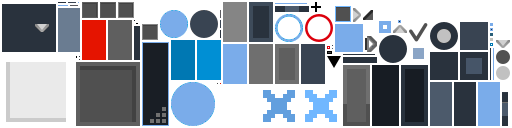
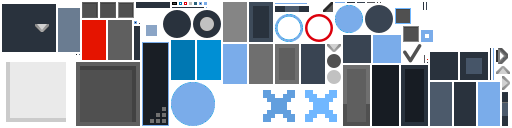
Changed items, added mushroom staff item

diff --git a/core/src/io/anuke/koru/ui/RecipeView.java b/core/src/io/anuke/koru/ui/RecipeView.java
@@ -4,12 +4,10 @@ import com.badlogic.gdx.graphics.g2d.Batch;
 import com.badlogic.gdx.graphics.g2d.TextureRegion;
 
 import io.anuke.koru.Koru;
-import io.anuke.koru.items.BlockRecipe;
+import io.anuke.koru.items.Recipe;
 import io.anuke.koru.network.Net;
 import io.anuke.koru.network.packets.RecipeSelectPacket;
 import io.anuke.koru.traits.InventoryTrait;
-import io.anuke.koru.world.materials.Material;
-import io.anuke.koru.world.materials.MaterialLayer;
 import io.anuke.ucore.core.Draw;
 import io.anuke.ucore.scene.Element;
 import io.anuke.ucore.scene.ui.layout.Table;
@@ -21,7 +19,7 @@ public class RecipeView extends Table{
 	Slot selected;
 	
 	public RecipeView(){
-		for(BlockRecipe recipe : BlockRecipe.getAll()){
+		for(Recipe recipe : Recipe.getAll()){
 			Slot slot = new Slot(recipe, recipe.id());
 			add(slot).size(slotsize);
 		}
@@ -33,9 +31,9 @@ public class RecipeView extends Table{
 	class Slot extends Element{
 		public final int index;
 		public final ClickListener click;
-		public final BlockRecipe recipe;
+		public final Recipe recipe;
 		
-		public Slot(BlockRecipe recipe, int index) {
+		public Slot(Recipe recipe, int index) {
 			this.index = index;
 			this.recipe = recipe;
 			
@@ -52,9 +50,26 @@ public class RecipeView extends Table{
 		}
 
 		public void draw(Batch batch, float alpha){
-			Draw.color(getColor());
+			
+			
 			patch(Koru.control.player.get(InventoryTrait.class).recipe == index ? "slotset" : (click.isOver() ? "slotselect2" : "slot2"));
 			
+			TextureRegion region = Draw.region(recipe.result().name() + "item");
+			
+			float scale = 4f;
+			
+			Draw.color(0f, 0f, 0f, 0.1f * alpha);
+			
+			Draw.rect(recipe.result().name() + "item", x + width/2f, y + height/2f - scale, 
+					region.getRegionWidth()*scale, region.getRegionHeight()*scale);
+			
+			Draw.color(getColor());
+			
+			Draw.rect(recipe.result().name() + "item", x + width/2f, y + height/2f, 
+					region.getRegionWidth()*scale, region.getRegionHeight()*scale);
+			
+			
+			/*
 			Material result = recipe.result();
 			TextureRegion region = Draw.region(result.name());
 			
@@ -67,6 +82,7 @@ public class RecipeView extends Table{
 			}
 			
 			Draw.reset();
+			*/
 		}
 	}
 }

diff --git a/core/src/io/anuke/koru/items/Item.java b/core/src/io/anuke/koru/items/Item.java
@@ -3,9 +3,11 @@ package io.anuke.koru.items;
 import java.util.EnumSet;
 
 import com.badlogic.gdx.utils.Array;
+import com.badlogic.gdx.utils.ObjectIntMap;
 
 import io.anuke.koru.input.InputHandler.ClickEvent;
 import io.anuke.koru.world.BreakType;
+import io.anuke.ucore.util.Strings;
 
 public class Item{
 	private static int lastid;
@@ -14,7 +16,10 @@ public class Item{
 	private final String name;
 	private final EnumSet<ItemType> types;
 	private final int id;
-	private int stackSize = 100;
+	
+	protected ObjectIntMap<BreakType> breakSpeeds = new ObjectIntMap<>();
+	protected String formalName;
+	protected int stackSize = 100;
 	
 	public static Item getItem(int id){
 		return items.get(id);
@@ -25,6 +30,7 @@ public class Item{
 		this.types = EnumSet.of(ItemType.any, types);
 		id = lastid ++;
 		items.add(this);
+		formalName = Strings.capitalize(name);
 	}
 	
 	public int getMaxStackSize(){
@@ -43,16 +49,16 @@ public class Item{
 		return name;
 	}
 	
+	public int getBreakSpeed(BreakType type){
+		return breakSpeeds.get(type, 0);
+	}
+	
 	public String formalName(){
-		return name().substring(0, 1).toUpperCase() + name().substring(1);
+		return formalName;
 	}
 	
 	public int id(){
 		return id;
-	}
-	
-	public float getBreakSpeed(BreakType type){
-		return 0;
 	}
 	
 	public void onClickEvent(ClickEvent event){}

diff --git a/core/src/io/anuke/koru/ui/BlockView.java b/core/src/io/anuke/koru/ui/BlockView.java
@@ -26,15 +26,20 @@ public class BlockView extends Table{
 	Slot selected;
 	
 	public BlockView(){
+		
+		add().colspan((BlockRecipe.getAll().size)/2);
+		add(req).size(64);
+		add().colspan((BlockRecipe.getAll().size)/2-1);
+		
+		row().padTop(32);
+		
 		for(BlockRecipe recipe : BlockRecipe.getAll()){
 			Slot slot = new Slot(recipe, recipe.id());
 			add(slot).size(slotsize);
 		}
 		
-		add(req).size(64);
-		
 		background("button-window-bg");
-		pad(4);
+		pad(2);
 	}
 	
 	class Requirement extends Element{

diff --git a/core/src/io/anuke/koru/items/impl/Items.java b/core/src/io/anuke/koru/items/impl/Items.java
@@ -20,17 +20,19 @@ public class Items{
 	
 	mushroom = new Item("mushroom"),
 	
-	tool = new Item("tool", ItemType.tool){
+	axe = new Item("woodaxe", ItemType.tool){
 		{
-			
-		}
-		
-		public float getBreakSpeed(BreakType type){
-			return 1;
+			formalName = "Wooden Axe";
+			breakSpeeds.put(BreakType.wood, 1);
 		}
 	},
 	
 	hammer = new Item("hammer", ItemType.tool, ItemType.placer){
 		
+	},
+	mushroomStaff = new Item("mushroomstaff", ItemType.tool){
+		{
+			formalName = "Mushroom Staff";
+		}
 	};
 }

diff --git a/core/src/io/anuke/koru/modules/UI.java b/core/src/io/anuke/koru/modules/UI.java
@@ -139,6 +139,7 @@ public class UI extends SceneModule{
 			aleft();
 			
 			blockrecipes = new BlockView();
+			recipes = new RecipeView();
 			
 			new table("button-window-bg"){{
 				get().pad(4);
@@ -155,8 +156,10 @@ public class UI extends SceneModule{
 				Stack stack = new Stack();
 				
 				stack.add(blockrecipes);
-				
 				blockrecipes.setVisible(()->group.getCheckedIndex() == 0);
+				
+				stack.add(recipes);
+				recipes.setVisible(()->group.getCheckedIndex() == 1);
 				
 				row();
 				

diff --git a/core/src/io/anuke/koru/world/materials/MaterialTypes.java b/core/src/io/anuke/koru/world/materials/MaterialTypes.java
@@ -13,6 +13,7 @@ import io.anuke.koru.graphics.KoruFacetLayers;
 import io.anuke.koru.graphics.ReflectionlessFacet;
 import io.anuke.koru.modules.World;
 import io.anuke.koru.traits.InventoryTrait;
+import io.anuke.koru.world.BreakType;
 import io.anuke.koru.world.Tile;
 import io.anuke.ucore.core.Draw;
 import io.anuke.ucore.core.Timers;
@@ -234,6 +235,7 @@ public class MaterialTypes{
 			hitbox.width = 7;
 			hitbox.height = 3;
 			solid = true;
+			breaktype = BreakType.wood;
 		}
 
 		@Override

diff --git a/core/src/io/anuke/koru/items/impl/Recipes.java b/core/src/io/anuke/koru/items/impl/Recipes.java
@@ -1,8 +1,14 @@
 package io.anuke.koru.items.impl;
 
+import static io.anuke.koru.items.Recipe.addRecipe;
+
+import io.anuke.koru.items.ItemStack;
+
 public class Recipes{
 	
 	public static void load(){
-		
+		addRecipe(Items.hammer, new ItemStack(Items.wood, 5), new ItemStack(Items.stick, 5));
+		addRecipe(Items.axe, new ItemStack(Items.stone, 5), new ItemStack(Items.stick, 5));
+		addRecipe(Items.mushroomStaff, new ItemStack(Items.stick, 10), new ItemStack(Items.mushroom, 5));
 	}
 }

diff --git a/server/src/io/anuke/koru/server/KoruServer.java b/server/src/io/anuke/koru/server/KoruServer.java
@@ -178,7 +178,7 @@ public class KoruServer implements NetProvider{
 
 			InventoryTrait inv = player.get(InventoryTrait.class);
 
-			inv.addItem(new ItemStack(Items.tool));
+			inv.addItem(new ItemStack(Items.axe));
 			inv.addItem(new ItemStack(Items.hammer));
 			inv.addItem(new ItemStack(Items.stick, 10));
 			inv.addItem(new ItemStack(Items.stone, 10));
